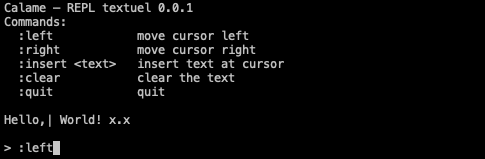
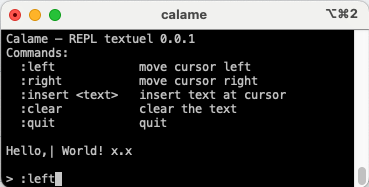
Updated doc

diff --git a/README.md b/README.md
@@ -20,13 +20,11 @@ are expected to live in separate projects, or on top of it.
 
 At its core, Calame revolves a single structure: machine.ml
 
-  +------------------+
   |     Machine      |
   |------------------|
   | space : x        |
   | obs   : x -> a   |
   | stab  : x -> x   |
-  +------------------+
 
 ## Example: small textual REPL
 
